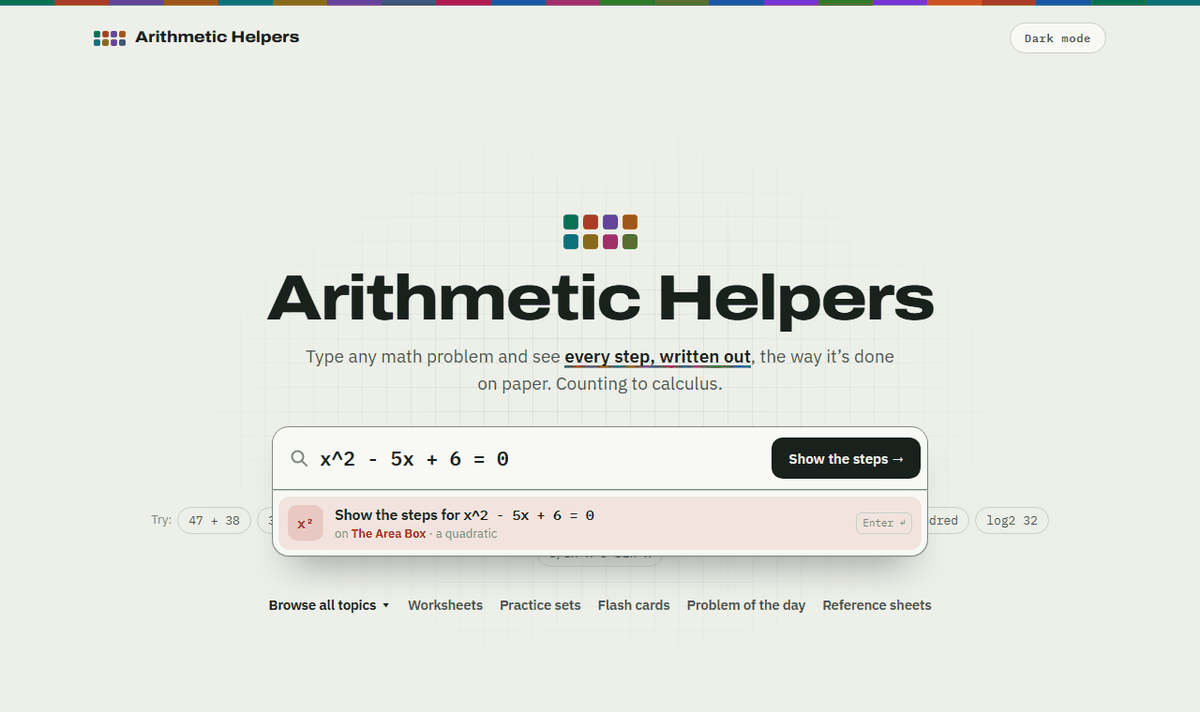
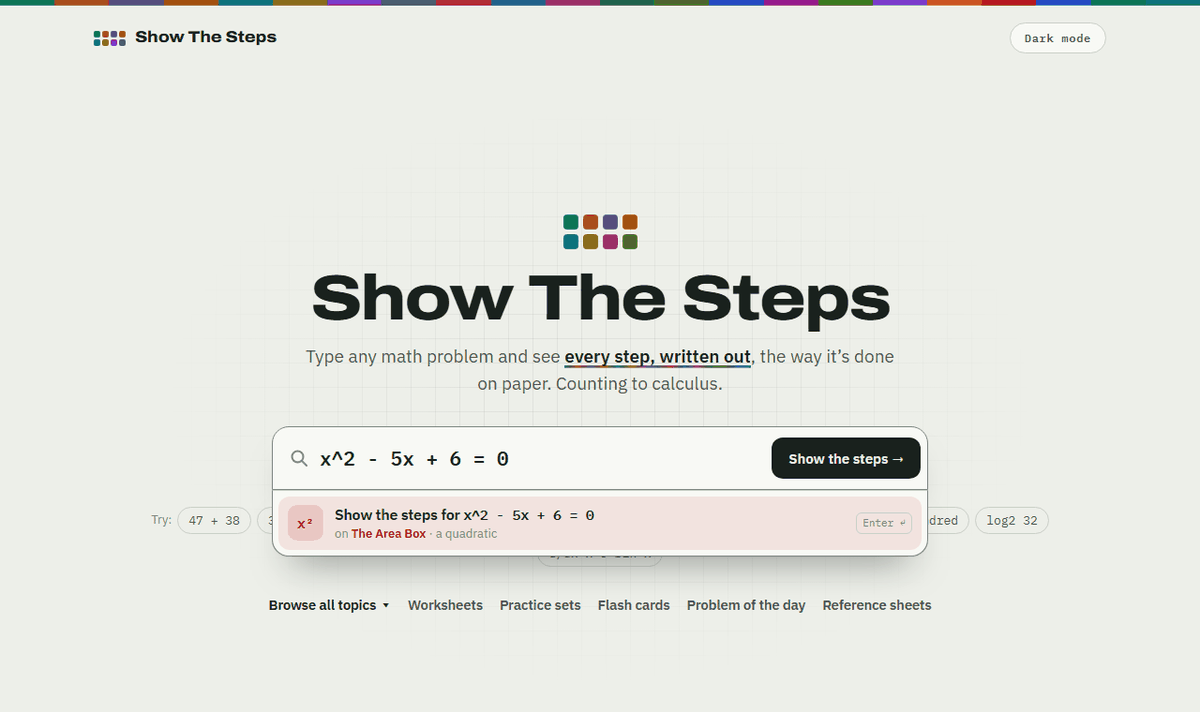
Rename the site to Show The Steps
The site is now called Show The Steps, to match its domain, showthesteps.org: the page titles, share previews (and
the share image, which now shows showthesteps.org), the home page heading, the installed app's name, the printed
footers, the help menu, the README and the repo's docs. Settings and saved progress keep their storage keys, and
the GitHub repository keeps its name so the old github.io links still redirect.

diff --git a/index.html b/index.html
@@ -2,15 +2,15 @@
 <html lang="en">
 <meta charset="utf-8">
 <meta name="viewport" content="width=device-width,initial-scale=1">
-<title>Arithmetic Helpers</title>
+<title>Show The Steps</title>
 <meta property="og:type" content="website">
-<meta property="og:site_name" content="Arithmetic Helpers">
-<meta property="og:title" content="Arithmetic Helpers">
+<meta property="og:site_name" content="Show The Steps">
+<meta property="og:title" content="Show The Steps">
 <meta property="og:description" content="Type in a math problem and see every step written out the way it&#x27;s done on paper: addition, subtraction, multiplication, long division, order of operations, algebra, geometry, trigonometry and calculus.">
 <meta property="og:url" content="https://showthesteps.org/">
 <meta property="og:image" content="https://showthesteps.org/assets/icons/og.png">
 <meta property="og:image:width" content="1200"><meta property="og:image:height" content="630">
-<meta property="og:image:alt" content="Arithmetic Helpers: every step, written out.">
+<meta property="og:image:alt" content="Show The Steps: every step, written out.">
 <meta name="twitter:card" content="summary_large_image">
 <link rel="manifest" href="assets/manifest.webmanifest">
 <link rel="sitemap" type="application/xml" title="Sitemap" href="sitemap.xml">
@@ -222,14 +222,14 @@
   <header class="top">
     <a class="brand" href="index.html">
       <span class="mark" aria-hidden="true"><i class="c-add"></i><i class="c-sub"></i><i class="c-mul"></i><i class="c-div"></i><i class="c-fra"></i><i class="c-pct"></i><i class="c-fac"></i><i class="c-int"></i><i class="c-rat"></i><i class="c-ord"></i><i class="c-alg"></i><i class="c-lin"></i><i class="c-geo"></i><i class="c-sta"></i></span>
-      Arithmetic Helpers
+      Show The Steps
     </a>
     <button class="theme-btn" id="themeBtn" type="button">Dark mode</button>
   </header>
 
   <section class="stage" aria-labelledby="hTitle">
     <span class="bigmark" aria-hidden="true"><i class="c-add"></i><i class="c-sub"></i><i class="c-mul"></i><i class="c-div"></i><i class="c-fra"></i><i class="c-pct"></i><i class="c-alg"></i><i class="c-geo"></i></span>
-    <h1 id="hTitle">Arithmetic Helpers</h1>
+    <h1 id="hTitle">Show The Steps</h1>
     <p class="tagline">Type any math problem and see <span class="u">every step, written out</span>, the way it’s done on paper.
       Counting to calculus.</p>
     <form class="ask" id="ask" role="search" autocomplete="off">
@@ -359,7 +359,7 @@
   <footer>
     <div class="stripe" aria-hidden="true"><i class="c-add"></i><i class="c-sub"></i><i class="c-mul"></i><i class="c-div"></i><i class="c-fra"></i><i class="c-pct"></i><i class="c-fac"></i><i class="c-int"></i><i class="c-rat"></i><i class="c-ord"></i><i class="c-alg"></i><i class="c-lin"></i><i class="c-geo"></i><i class="c-sta"></i><i class="c-pro"></i><i class="c-tri"></i><i class="c-cal"></i><i class="c-num"></i><i class="c-qua"></i><i class="c-log"></i><i class="c-seq"></i><i class="c-wrd"></i></div>
     <div class="row">
-      <span>Arithmetic Helpers &middot; light and dark themes, and a print layout on every page.
+      <span>Show The Steps &middot; light and dark themes, and a print layout on every page.
         Visits are counted with <a href="https://www.goatcounter.com">GoatCounter</a>: no cookies, nothing personal.</span>
       <span><a id="siteVersion" href="https://github.com/chrisdfennell/arithmetic-helpers/releases">What’s new</a> &middot;
         <a href="https://github.com/chrisdfennell/arithmetic-helpers">Source on GitHub</a></span>

diff --git a/practice/problem-of-the-day.html b/practice/problem-of-the-day.html
@@ -5,13 +5,13 @@
 <title>Problem of the Day</title>
 <meta name="description" content="One math problem a day, the same for everyone on that date, so a whole class can do it together. Check your answer, see the steps, and keep your streak going.">
 <meta property="og:type" content="website">
-<meta property="og:site_name" content="Arithmetic Helpers">
-<meta property="og:title" content="Problem of the Day · Arithmetic Helpers">
+<meta property="og:site_name" content="Show The Steps">
+<meta property="og:title" content="Problem of the Day · Show The Steps">
 <meta property="og:description" content="One math problem a day, the same for everyone on that date, so a whole class can do it together. Check your answer, see the steps, and keep your streak going.">
 <meta property="og:url" content="https://showthesteps.org/practice/problem-of-the-day">
 <meta property="og:image" content="https://showthesteps.org/assets/icons/og.png">
 <meta property="og:image:width" content="1200"><meta property="og:image:height" content="630">
-<meta property="og:image:alt" content="Arithmetic Helpers: every step, written out.">
+<meta property="og:image:alt" content="Show The Steps: every step, written out.">
 <meta name="twitter:card" content="summary_large_image">
 <script src="../assets/site.js"></script>
 <script src="../assets/nav.js" defer></script>
@@ -2766,7 +2766,7 @@
         + '<span class="links"><a class="small-link" href="problem-of-the-day.html?date=' + p.key + '">Open</a><a class="small-link" href="' + esc(link(p, "practice=check")) + '" target="_blank" rel="noopener">On its helper ↗</a></span></li>';
     }).join("");
     $("klist").innerHTML = days.map(function(p){ return "<li><b>" + esc(p.day.name) + ":</b> " + esc(p.answer) + "</li>"; }).join("");
-    $("printSheet").innerHTML = '<div><h2>Problem of the Day · ' + esc(span) + '</h2><p class="sub">Arithmetic Helpers · one problem a day. Each one opens at '
+    $("printSheet").innerHTML = '<div><h2>Problem of the Day · ' + esc(span) + '</h2><p class="sub">Show The Steps · one problem a day. Each one opens at '
       + esc(U("daily.html").replace(/^https?:\/\//, "")) + "?date=YYYY-MM-DD</p><ol>"
       + days.map(function(p){ return '<li><span class="day">' + esc(words(p.key)) + "</span> <span class=\"tpn\">· " + esc(p.topic.name) + (p.day.theme !== p.day.name ? " · " + esc(p.day.theme) : "") + "</span><br>"
           + esc(p.text) + '<div class="work"></div></li>'; }).join("")

diff --git a/reference/sheets.html b/reference/sheets.html
@@ -6,13 +6,13 @@
 <title>Reference Sheets</title>
 <meta name="description" content="One-page reference sheets to print and keep: times tables to 20, hundred charts, primes, fractions and percents, geometry, graphing, probability, money and time, math words, and a graph paper maker.">
 <meta property="og:type" content="website">
-<meta property="og:site_name" content="Arithmetic Helpers">
-<meta property="og:title" content="Reference Sheets · Arithmetic Helpers">
+<meta property="og:site_name" content="Show The Steps">
+<meta property="og:title" content="Reference Sheets · Show The Steps">
 <meta property="og:description" content="One-page reference sheets to print and keep: times tables to 20, hundred charts, primes, fractions and percents, geometry, graphing, probability, money and time, math words, and a graph paper maker.">
 <meta property="og:url" content="https://showthesteps.org/reference/sheets">
 <meta property="og:image" content="https://showthesteps.org/assets/icons/og.png">
 <meta property="og:image:width" content="1200"><meta property="og:image:height" content="630">
-<meta property="og:image:alt" content="Arithmetic Helpers: every step, written out.">
+<meta property="og:image:alt" content="Show The Steps: every step, written out.">
 <meta name="twitter:card" content="summary_large_image">
 <script src="../assets/site.js"></script>
 <script src="../assets/nav.js" defer></script>
@@ -862,7 +862,7 @@
       '<header class="sh-head"><div><div class="sh-kick">' + (s.paper ? "Printable paper" : "Reference sheet " + s.no) + (s.kick ? " · " + s.kick : "") + "</div>" +
       '<h2 class="sh-title">' + s.title + "</h2></div>" + '<p class="sh-sub">' + s.sub + "</p></header>" +
       '<div class="sh-body">' + body + "</div>" +
-      '<footer class="sh-foot"><span>Arithmetic Helpers · Reference Sheets</span><span>showthesteps.org/reference/sheets#' + s.id + "</span></footer></article>";
+      '<footer class="sh-foot"><span>Show The Steps · Reference Sheets</span><span>showthesteps.org/reference/sheets#' + s.id + "</span></footer></article>";
   }
 
   /* ---------- 1 · multiplication table ---------- */

diff --git a/practice/worksheets.html b/practice/worksheets.html
@@ -5,13 +5,13 @@
 <title>The Worksheet Maker</title>
 <meta name="description" content="Pick topics from any of the helpers and how hard they should be. You get a printable worksheet with room to work, and an answer key on its own page where every answer links to the worked steps.">
 <meta property="og:type" content="website">
-<meta property="og:site_name" content="Arithmetic Helpers">
-<meta property="og:title" content="The Worksheet Maker · Arithmetic Helpers">
+<meta property="og:site_name" content="Show The Steps">
+<meta property="og:title" content="The Worksheet Maker · Show The Steps">
 <meta property="og:description" content="Pick topics from any of the helpers and how hard they should be. You get a printable worksheet with room to work, and an answer key on its own page where every answer links to the worked steps.">
 <meta property="og:url" content="https://showthesteps.org/practice/worksheets">
 <meta property="og:image" content="https://showthesteps.org/assets/icons/og.png">
 <meta property="og:image:width" content="1200"><meta property="og:image:height" content="630">
-<meta property="og:image:alt" content="Arithmetic Helpers: every step, written out.">
+<meta property="og:image:alt" content="Show The Steps: every step, written out.">
 <meta name="twitter:card" content="summary_large_image">
 <script src="../assets/site.js"></script>
 <script src="../assets/nav.js" defer></script>
@@ -600,7 +600,7 @@
       + (withSpace ? '<span class="space" style="height:' + SPACE[S.space] + '"></span>' : "") + "</div>";
   }
   function footer(){
-    return '<div class="sh-foot"><span>Arithmetic Helpers</span><span>showthesteps.org</span></div>';
+    return '<div class="sh-foot"><span>Show The Steps</span><span>showthesteps.org</span></div>';
   }
 
   /* ===================== settings ===================== */

diff --git a/tests/self-test.html b/tests/self-test.html
@@ -6,13 +6,13 @@
 <meta name="description" content="Math problems worked out step by step, the way it&#x27;s done on paper.">
 <meta name="robots" content="noindex">
 <meta property="og:type" content="website">
-<meta property="og:site_name" content="Arithmetic Helpers">
-<meta property="og:title" content="Self Test · Arithmetic Helpers">
+<meta property="og:site_name" content="Show The Steps">
+<meta property="og:title" content="Self Test · Show The Steps">
 <meta property="og:description" content="Math problems worked out step by step, the way it&#x27;s done on paper.">
 <meta property="og:url" content="https://showthesteps.org/tests/self-test">
 <meta property="og:image" content="https://showthesteps.org/assets/icons/og.png">
 <meta property="og:image:width" content="1200"><meta property="og:image:height" content="630">
-<meta property="og:image:alt" content="Arithmetic Helpers: every step, written out.">
+<meta property="og:image:alt" content="Show The Steps: every step, written out.">
 <meta name="twitter:card" content="summary_large_image">
 <link rel="icon" type="image/svg+xml" href="../assets/icons/favicon.svg">
 <link rel="preconnect" href="https://fonts.googleapis.com">
@@ -77,7 +77,7 @@
 
 <div class="page">
   <div>
-    <div class="eyebrow"><a href="../index.html">Arithmetic Helpers</a> &middot; for checking the site</div>
+    <div class="eyebrow"><a href="../index.html">Show The Steps</a> &middot; for checking the site</div>
     <h1>Self test</h1>
     <p>Runs every helper page and checks it gets the right answers. It opens each page in a hidden frame and checks
       five things: the page loads with all its parts; a list of problems with known answers; <b>Check my answer</b>

diff --git a/helpers/complex-numbers.html b/helpers/complex-numbers.html
@@ -5,13 +5,13 @@
 <title>The Complex Plane</title>
 <meta name="description" content="Complex numbers, step by step. What i is and its powers, square roots of negatives, adding, multiplying and dividing a + bi, the complex plane with modulus and argument, polar and exponential form, De Moivre's theorem for powers and roots, and quadratic equations with complex solutions, with the reason for every step.">
 <meta property="og:type" content="website">
-<meta property="og:site_name" content="Arithmetic Helpers">
-<meta property="og:title" content="The Complex Plane · Arithmetic Helpers">
+<meta property="og:site_name" content="Show The Steps">
+<meta property="og:title" content="The Complex Plane · Show The Steps">
 <meta property="og:description" content="Complex numbers, step by step. What i is and its powers, square roots of negatives, adding, multiplying and dividing a + bi, the complex plane with modulus and argument, polar and exponential form, De Moivre's theorem for powers and roots, and quadratic equations with complex solutions, with the reason for every step.">
 <meta property="og:url" content="https://showthesteps.org/helpers/complex-numbers">
 <meta property="og:image" content="https://showthesteps.org/assets/icons/og.png">
 <meta property="og:image:width" content="1200"><meta property="og:image:height" content="630">
-<meta property="og:image:alt" content="Arithmetic Helpers: every step, written out.">
+<meta property="og:image:alt" content="Show The Steps: every step, written out.">
 <meta name="twitter:card" content="summary_large_image">
 <script src="../assets/site.js"></script>
 <script src="../assets/nav.js" defer></script>

diff --git a/helpers/radicals.html b/helpers/radicals.html
@@ -5,13 +5,13 @@
 <title>The Root Cellar</title>
 <meta name="description" content="Radicals and rational expressions, step by step. Simplify square roots and cube roots, add and multiply radicals, rationalize denominators, switch between rational exponents and radicals, solve radical equations, and simplify, multiply, add and solve rational expressions, checking for extraneous answers.">
 <meta property="og:type" content="website">
-<meta property="og:site_name" content="Arithmetic Helpers">
-<meta property="og:title" content="The Root Cellar · Arithmetic Helpers">
+<meta property="og:site_name" content="Show The Steps">
+<meta property="og:title" content="The Root Cellar · Show The Steps">
 <meta property="og:description" content="Radicals and rational expressions, step by step. Simplify square roots and cube roots, add and multiply radicals, rationalize denominators, switch between rational exponents and radicals, solve radical equations, and simplify, multiply, add and solve rational expressions, checking for extraneous answers.">
 <meta property="og:url" content="https://showthesteps.org/helpers/radicals">
 <meta property="og:image" content="https://showthesteps.org/assets/icons/og.png">
 <meta property="og:image:width" content="1200"><meta property="og:image:height" content="630">
-<meta property="og:image:alt" content="Arithmetic Helpers: every step, written out.">
+<meta property="og:image:alt" content="Show The Steps: every step, written out.">
 <meta name="twitter:card" content="summary_large_image">
 <script src="../assets/site.js"></script>
 <script src="../assets/nav.js" defer></script>

diff --git a/helpers/matrices-and-vectors.html b/helpers/matrices-and-vectors.html
@@ -5,13 +5,13 @@
 <title>The Matrix Grid</title>
 <meta name="description" content="Matrices and vectors, step by step. Add, scale and multiply matrices row by column, find determinants and inverses, solve systems by Gaussian elimination, Gauss-Jordan, Cramer’s rule or the inverse, and work with vectors: magnitude, unit vectors, dot and cross products, angles and projections.">
 <meta property="og:type" content="website">
-<meta property="og:site_name" content="Arithmetic Helpers">
-<meta property="og:title" content="The Matrix Grid · Arithmetic Helpers">
+<meta property="og:site_name" content="Show The Steps">
+<meta property="og:title" content="The Matrix Grid · Show The Steps">
 <meta property="og:description" content="Matrices and vectors, step by step. Add, scale and multiply matrices row by column, find determinants and inverses, solve systems by Gaussian elimination, Gauss-Jordan, Cramer’s rule or the inverse, and work with vectors: magnitude, unit vectors, dot and cross products, angles and projections.">
 <meta property="og:url" content="https://showthesteps.org/helpers/matrices-and-vectors">
 <meta property="og:image" content="https://showthesteps.org/assets/icons/og.png">
 <meta property="og:image:width" content="1200"><meta property="og:image:height" content="630">
-<meta property="og:image:alt" content="Arithmetic Helpers: every step, written out.">
+<meta property="og:image:alt" content="Show The Steps: every step, written out.">
 <meta name="twitter:card" content="summary_large_image">
 <script src="../assets/site.js"></script>
 <script src="../assets/nav.js" defer></script>

diff --git a/helpers/trigonometry.html b/helpers/trigonometry.html
@@ -5,13 +5,13 @@
 <title>The Unit Circle</title>
 <meta name="description" content="Trigonometry, step by step. Right triangles with SOH-CAH-TOA, exact values of the special angles, the unit circle with reference angles and signs, the laws of sines and cosines (the ambiguous case too), graphs of sine and cosine, and two identities, with the reason for every step.">
 <meta property="og:type" content="website">
-<meta property="og:site_name" content="Arithmetic Helpers">
-<meta property="og:title" content="The Unit Circle · Arithmetic Helpers">
+<meta property="og:site_name" content="Show The Steps">
+<meta property="og:title" content="The Unit Circle · Show The Steps">
 <meta property="og:description" content="Trigonometry, step by step. Right triangles with SOH-CAH-TOA, exact values of the special angles, the unit circle with reference angles and signs, the laws of sines and cosines (the ambiguous case too), graphs of sine and cosine, and two identities, with the reason for every step.">
 <meta property="og:url" content="https://showthesteps.org/helpers/trigonometry">
 <meta property="og:image" content="https://showthesteps.org/assets/icons/og.png">
 <meta property="og:image:width" content="1200"><meta property="og:image:height" content="630">
-<meta property="og:image:alt" content="Arithmetic Helpers: every step, written out.">
+<meta property="og:image:alt" content="Show The Steps: every step, written out.">
 <meta name="twitter:card" content="summary_large_image">
 <script src="../assets/site.js"></script>
 <script src="../assets/nav.js" defer></script>

diff --git a/helpers/functions.html b/helpers/functions.html
@@ -5,13 +5,13 @@
 <title>The Function Machine</title>
 <meta name="description" content="Functions, step by step. Evaluate f(x) with a function machine, test whether a relation is a function, find domain and range, add, multiply and compose functions, find inverses, work with piecewise functions, and decide whether a function is even or odd.">
 <meta property="og:type" content="website">
-<meta property="og:site_name" content="Arithmetic Helpers">
-<meta property="og:title" content="The Function Machine · Arithmetic Helpers">
+<meta property="og:site_name" content="Show The Steps">
+<meta property="og:title" content="The Function Machine · Show The Steps">
 <meta property="og:description" content="Functions, step by step. Evaluate f(x) with a function machine, test whether a relation is a function, find domain and range, add, multiply and compose functions, find inverses, work with piecewise functions, and decide whether a function is even or odd.">
 <meta property="og:url" content="https://showthesteps.org/helpers/functions">
 <meta property="og:image" content="https://showthesteps.org/assets/icons/og.png">
 <meta property="og:image:width" content="1200"><meta property="og:image:height" content="630">
-<meta property="og:image:alt" content="Arithmetic Helpers: every step, written out.">
+<meta property="og:image:alt" content="Show The Steps: every step, written out.">
 <meta name="twitter:card" content="summary_large_image">
 <script src="../assets/site.js"></script>
 <script src="../assets/nav.js" defer></script>

diff --git a/helpers/calculus.html b/helpers/calculus.html
@@ -5,13 +5,13 @@
 <title>The Rate Machine</title>
 <meta name="description" content="Calculus, step by step: limits (and what to do when plugging in gives 0/0), derivatives with the power, product, quotient and chain rules, tangent lines, maxima and minima, antiderivatives and areas, and rates of change — one rule per line, with the reason.">
 <meta property="og:type" content="website">
-<meta property="og:site_name" content="Arithmetic Helpers">
-<meta property="og:title" content="The Rate Machine · Arithmetic Helpers">
+<meta property="og:site_name" content="Show The Steps">
+<meta property="og:title" content="The Rate Machine · Show The Steps">
 <meta property="og:description" content="Calculus, step by step: limits (and what to do when plugging in gives 0/0), derivatives with the power, product, quotient and chain rules, tangent lines, maxima and minima, antiderivatives and areas — one rule per line, with the reason.">
 <meta property="og:url" content="https://showthesteps.org/helpers/calculus">
 <meta property="og:image" content="https://showthesteps.org/assets/icons/og.png">
 <meta property="og:image:width" content="1200"><meta property="og:image:height" content="630">
-<meta property="og:image:alt" content="Arithmetic Helpers: every step, written out.">
+<meta property="og:image:alt" content="Show The Steps: every step, written out.">
 <meta name="twitter:card" content="summary_large_image">
 <script src="../assets/site.js"></script>
 <script src="../assets/nav.js" defer></script>

diff --git a/helpers/college-statistics.html b/helpers/college-statistics.html
@@ -5,13 +5,13 @@
 <title>The Bell Curve</title>
 <meta name="description" content="First-year college and AP statistics, step by step: z-scores, normal probabilities on a shaded bell curve, the binomial, sampling distributions and the central limit theorem, confidence intervals, hypothesis tests, and correlation and regression.">
 <meta property="og:type" content="website">
-<meta property="og:site_name" content="Arithmetic Helpers">
-<meta property="og:title" content="The Bell Curve · Arithmetic Helpers">
+<meta property="og:site_name" content="Show The Steps">
+<meta property="og:title" content="The Bell Curve · Show The Steps">
 <meta property="og:description" content="First-year college and AP statistics, step by step: z-scores, normal probabilities on a shaded bell curve, the binomial, sampling distributions and the central limit theorem, confidence intervals, hypothesis tests, and correlation and regression.">
 <meta property="og:url" content="https://showthesteps.org/helpers/college-statistics">
 <meta property="og:image" content="https://showthesteps.org/assets/icons/og.png">
 <meta property="og:image:width" content="1200"><meta property="og:image:height" content="630">
-<meta property="og:image:alt" content="Arithmetic Helpers: every step, written out.">
+<meta property="og:image:alt" content="Show The Steps: every step, written out.">
 <meta name="twitter:card" content="summary_large_image">
 <script src="../assets/site.js"></script>
 <script src="../assets/nav.js" defer></script>
